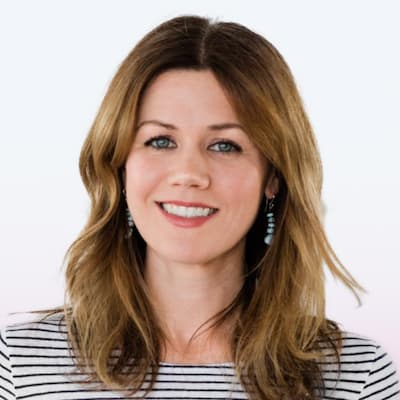
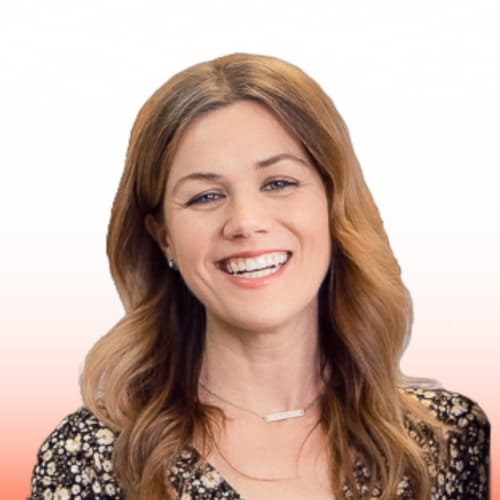
fix: update photos

diff --git a/src/app/(pages)/work-with-us/page.tsx b/src/app/(pages)/work-with-us/page.tsx
@@ -11,7 +11,7 @@ export default function Home() {
             <main className="top-0 w-screen flex min-h-screen flex-col items-center justify-start">
                 <FullWidthImageBehindGradient
                     variant="tertiary"
-                    imageUrl="/images/lindsey_conway_edible-22.jpg"
+                    imageUrl="/images/work-with-us-header-nourished-co.jpg"
                     align="center"
                 >
                     <p
